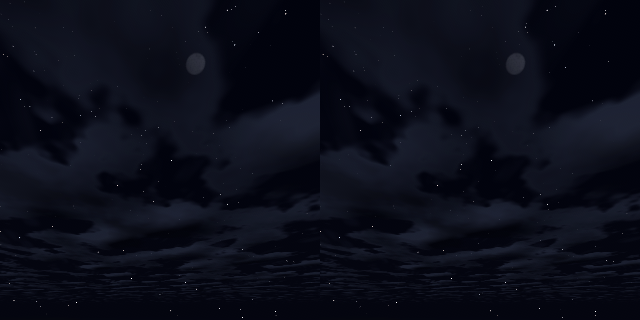
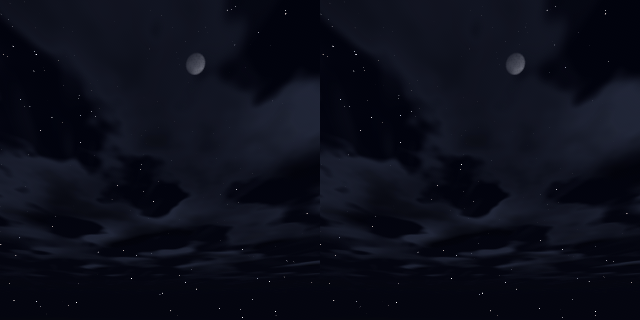
L1 sky: footprint-filtered clouds (no horizon stripes), cave dimming, no clouds in blind fog; checks for both
Verifier pass 1 fixes: each octave fades to its mean by pixel footprint and the octaves are rotated, the deck
reaches the horizon colour before it fades; u.wind.w carries caveScale; the pass is skipped under blind fog. SkyTest
adds a horizon-stripe check (clear + overcast) and a dark-cave check, and reads the biome air through skyColor.

Claude-Session: https://claude.ai/code/session_01YJGoYow1UijYySgLSrD9Pa

diff --git a/quest/src/test/SkyTest.swift b/quest/src/test/SkyTest.swift
@@ -71,6 +71,36 @@ enum SkyTest {
         let sunset = try view("sunset", time: 0.485, pitch: 0.3, yaw: .pi / 2)
         check(sunset.changed > 0.05 && sunset.cloudR > sunset.cloudB + 12,
               String(format: "sky: sunset clouds are warm (r %.0f, b %.0f over %.0f%%)", sunset.cloudR, sunset.cloudB, sunset.changed * 100))
+        // Toward the horizon (the last ~6 degrees above it) the deck must not alias into 1-pixel stripes: the mean
+        // vertical second difference of luma there, minus the same without clouds (the dome's own gradient).
+        func stripes(_ img: [UInt8], horizonRow: Int) -> Float {
+            var sum: Float = 0, n: Float = 0
+            func l(_ x: Int, _ y: Int) -> Float {
+                let i = (y * w * 2 + x) * 4
+                return 0.2126 * Float(img[i]) + 0.7152 * Float(img[i + 1]) + 0.0722 * Float(img[i + 2])
+            }
+            for y in max(0, horizonRow - 22)..<(horizonRow - 3) { for x in 0..<w { sum += abs(l(x, y) - 2 * l(x, y + 1) + l(x, y + 2)); n += 1 } }
+            return sum / max(1, n)
+        }
+        for (name, rain) in [("horizon", Float(0)), ("horizon_overcast", Float(1))] {
+            let pitch: Float = 0.08
+            let hr = h / 2 + Int(Float(h / 2) * tanf(pitch))
+            _ = try view(name, time: 0.22, pitch: pitch, rain: rain)
+            let on = stripes(RenderTest.lastRGBA, horizonRow: hr)
+            WorldRenderer.debugSkip.insert("clouds")
+            try RenderTest.render(game: game, ctx: ctx, path: "\(dir)/sky_\(name)_off.png", width: w, height: h, yaw: 0.6, pitch: pitch)
+            WorldRenderer.debugSkip.remove("clouds")
+            let off = stripes(RenderTest.lastRGBA, horizonRow: hr)
+            check(on - off < 2.5, String(format: "sky: no stripes toward the horizon (%@: roughness %.2f with clouds, %.2f without)", name, on, off))
+        }
+        // From a dark cave (the dome dimmed to 8 %%) the clouds up a shaft dim with it.
+        do {
+            WorldRenderer.testCaveK = 0
+            defer { WorldRenderer.testCaveK = nil }
+            let cave = try view("cave", time: 0.22, pitch: 0.75)
+            check(cave.cloudLuma < 60 || cave.changed < 0.02,
+                  String(format: "sky: clouds dim with the sky seen from a dark cave (cloud luma %.0f vs %.0f outside)", cave.cloudLuma, noon.cloudLuma))
+        }
         let night = try view("night", time: 0.75, pitch: 0.75)
         check(night.changed > 0.03 && night.cloudLuma < noon.cloudLuma * 0.4,
               String(format: "sky: night clouds are dim shapes (cloud luma %.0f vs %.0f at noon, %.0f%%)", night.cloudLuma, noon.cloudLuma, night.changed * 100))
@@ -104,13 +134,23 @@ enum SkyTest {
         for _ in 0..<1200 { game.skyTick(0.05) }
         let flashes = game.sky.distantFlashes - f0
         check(flashes >= 4 && flashes <= 25, "sky: a minute of thunderstorm flashes the distant clouds \(flashes) times")
-        let (desertT, desertH, desertC) = SkyState.air(.desert)
-        let (snowT, snowH, _) = SkyState.air(.snowyPlains)
-        check(desertH > 0.5 && snowH == 0 && snowT.z / snowT.x > desertT.z / desertT.x && desertC < 0.3,
-              "sky: desert air is hazy and warm with few clouds, snow air cold and clear")
-        var hz = SkyState(); hz.haze = 1; hz.tint = desertT
-        let clearC = V3(0.64, 0.77, 0.92)
-        let hazy = hz.tinted(clearC)
-        check(hazy.x / hazy.z > clearC.x / clearC.z + 0.1, String(format: "sky: desert haze warms the horizon (r/b %.2f vs %.2f)", hazy.x / hazy.z, clearC.x / clearC.z))
+        // Biome air as the game shows it: walk the sky state to the biome under a desert and a snow column and read
+        // the noon horizon and zenith (Game.skyColor / skyZenith, both platforms).
+        game.weather = Weather(); game.weather.rain = 0; game.weather.thunder = 0
+        game.time = 0.25 * DAY_LENGTH
+        func settle(_ b: Biome) -> (V3, V3, Float) {
+            let (t, hz, c) = SkyState.air(b)
+            game.sky.targetTint = t; game.sky.targetHaze = hz; game.sky.targetCover = c
+            for _ in 0..<400 { game.sky.biomeTimer = 1; game.skyTick(0.05) }      // 20 s, the biome sample held
+            return (game.skyColor, game.skyZenith, game.cloudCover)
+        }
+        let (plainH, plainZ, plainC) = settle(.plains)
+        let (desH, desZ, desC) = settle(.desert)
+        let (snowH, snowZ, _) = settle(.snowyPlains)
+        let rb = { (c: V3) -> Float in c.x / c.z }
+        check(rb(desH) > rb(plainH) + 0.08 && rb(desZ) > rb(plainZ) + 0.05 && desC < plainC,
+              String(format: "sky: desert air is hazier and warmer with fewer clouds (horizon r/b %.2f vs %.2f plains, cover %.2f vs %.2f)", rb(desH), rb(plainH), desC, plainC))
+        check(rb(snowH) < rb(plainH) - 0.03 && rb(snowZ) <= rb(plainZ),
+              String(format: "sky: snow air is a colder blue (horizon r/b %.2f vs %.2f plains)", rb(snowH), rb(plainH)))
     }
 }

diff --git a/quest/src/vk/WorldRenderer.swift b/quest/src/vk/WorldRenderer.swift
@@ -63,7 +63,8 @@ final class WorldRenderer {
         caveClock = now
         caveK = caveK < 0 ? target : caveK + (target - caveK) * (1 - expf(-dt / 0.7))
     }
-    var caveScale: Float { 0.08 + 0.92 * min(1, max(0, caveK) * 1.6) }
+    var caveScale: Float { 0.08 + 0.92 * min(1, max(0, WorldRenderer.testCaveK ?? caveK) * 1.6) }
+    static var testCaveK: Float?           // SkyTest: a dark-cave eye without building a cave
 
     func uniforms(_ cam: EyeCamera) -> (FrameUniforms, V3) {
         let p = game.player
@@ -104,7 +105,7 @@ final class WorldRenderer {
         let cx = Double(eye.x) + sk.driftX, cz = Double(eye.z) + sk.driftZ
         u.clouds = V4(Float(cx), Float(cz), game.cloudCover, sk.flash)
         u.cloudFlash = V4(sk.flashDir, min(1, game.weather.rain * 0.55 + game.weather.thunder * 0.45))
-        u.wind = V4(sk.wind.x, sk.wind.y, sk.haze, 0)
+        u.wind = V4(sk.wind.x, sk.wind.y, sk.haze, caveScale)
         let skyKind: Float = underwater || game.blindFog != nil ? 0 : (hasSky || vaultSky ? 1 : (game.dim.dim == .end ? 2 : 0))
         // Eye darkness: skylight 13.5+ around the eye (daylight, near the surface) 0 ... 4.5 or less (caves, deep dives) 1;
         // a wide ramp so the fill grows in step with the walls darkening.
@@ -203,7 +204,9 @@ final class WorldRenderer {
             body(-sd, 5, Int(Tex.id("moon_\(game.moonPhase)")), V4(1, 1, 1, 1))
             scene.commit(off, bw.n, EntityVert.self)
             scene.drawScratch(s, "body", offset: off, count: bw.n)
-            if QuestSettings.clouds && !WorldRenderer.debugSkip.contains("clouds") && game.dim.dim == .overworld { scene.drawClouds(s) }
+            if QuestSettings.clouds && !WorldRenderer.debugSkip.contains("clouds") && game.dim.dim == .overworld && game.blindFog == nil {
+                scene.drawClouds(s)
+            }
         } else if !underwater && game.inVaultSky {
             // The Cinder Sun over the Ash Vault: big, dull and red through the haze.
             let (ptr, off, cap) = scene.reserve(s, EntityVert.self, max: 6)

diff --git a/Sources/SkyLook.swift b/Sources/SkyLook.swift
@@ -3,7 +3,7 @@ import simd
 
 // The look of the overworld sky beyond the dome gradient (L1 look upgrade, docs/status/look-upgrade.md):
 // - one wind that drives every cloud layer (the Quest draws a cumulus deck and a high cirrus deck in clouds.frag; the
-//   drift is kept here in Double so it never loses precision over a long session);
+//   drift accumulates here in Double, and the eye's cloud-space position is sent as Float, fine to ~1e6 blocks);
 // - how cloudy the biome's air is and its tint (hazy warm over desert and badlands, cold blue over snow, damp grey-green
 //   over swamps), eased in over a few seconds as you travel;
 // - distant storm flashes: during a thunderstorm the clouds light up far away between the real strikes, with a far
@@ -99,7 +99,9 @@ extension Game {
                 let a = Rand.float(in: 0..<(2 * .pi)), e = Rand.float(in: 0.08...0.35)
                 s.flashAt(V3(cosf(a) * cosf(e), sinf(e), sinf(a) * cosf(e)), strength: Rand.float(in: 0.45...0.9))
                 s.distantFlashes += 1
-                if s.thunderIn < 0 { s.thunderIn = Rand.float(in: 2.5...7); s.thunderVolume = Rand.float(in: 0.22...0.45) }
+                // One roll at a time (a pending roll takes the louder of the two flashes).
+                let vol = Rand.float(in: 0.22...0.45)
+                if s.thunderIn < 0 { s.thunderIn = Rand.float(in: 2.5...7); s.thunderVolume = vol } else { s.thunderVolume = max(s.thunderVolume, vol) }
             }
         }
         if s.thunderIn >= 0 {

diff --git a/quest/src/vk/SceneRenderer.swift b/quest/src/vk/SceneRenderer.swift
@@ -19,7 +19,7 @@ struct FrameUniforms {
     var waves = V4(1, 0, 0, 0)       // x = ocean swell scale (Weather.swell)
     var clouds = V4(0, 0, 0.45, 0)   // clouds.frag: eye in cloud space (xz), cover, storm flash (SkyLook.swift)
     var cloudFlash = V4(0, 0.3, 1, 0) // flash direction, storm darkness
-    var wind = V4(1, 0, 0, 0)        // wind direction (xz), biome haze
+    var wind = V4(1, 0, 0, 1)        // wind direction (xz), biome haze, cave dimming
 }
 
 // One frame's camera: the head centre in world space and each eye's camera-relative view-projection.

diff --git a/docs/status/look-upgrade.md b/docs/status/look-upgrade.md
@@ -47,17 +47,26 @@ Our own additions:
 Each view is rendered with and without the cloud pass and compared pixel by pixel (left eye, 320x320 on lavapipe):
 fair-weather noon cover 12-85 % of an upward view and bright; rain closes the cover and darkens the sky; a
 thunderstorm darkens it further; a storm flash lights the clouds; sunset clouds are warm (r > b); night clouds are
-dim; 10 s of wind drifts the clouds along the wind; a minute of thunderstorm gives 4-25 distant flashes; desert air is
-hazy/warm and snow air cold/clear.
+dim; no stripes in the last ~6 degrees above the horizon (vertical luma roughness vs the cloudless frame, clear and
+overcast); from a dark cave the clouds dim with the sky; 10 s of wind drifts the clouds along the wind; a minute of thunderstorm gives 4-25 distant flashes; desert air is
+hazier, warmer and less cloudy and snow air colder blue, read from Game.skyColor/skyZenith after the sky state
+settles on each biome.
 
-First run (2026-10-11): noon 71 % cover, cloud luma 189; overcast 88 %, sky luma 92 vs 179; storm 46; storm flash 98;
-sunset cloud r 173 / b 108; night cloud luma 19; 7 distant flashes a minute.
+Verifier pass 1 (independent review): FAIL on horizon aliasing, clouds not dimmed from caves, clouds drawn in blind
+fog. Fixed: footprint filtering (each octave fades to its mean once its cells shrink under ~2 pixels, rim widened by the
+footprint, octaves rotated against each other), u.wind.w carries caveScale, the pass is skipped under blind fog; checks
+added for the first two. Also from the review: the silver lining is stronger at dusk, night clouds are more opaque over
+the stars, a pending far thunder roll takes the louder of two flashes.
+
+Run 2026-10-11 (after the review fixes): noon 66 % cover, cloud luma 196; overcast 83 %, sky luma 91 vs 184; storm 45;
+storm flash 98; sunset cloud r 174 / b 111; night cloud luma 20; horizon roughness 1.62 / 1.66 (0.87 / 0.93 without
+clouds); cave cloud luma 19; 8 distant flashes a minute.
 
 ### Cost
-lavapipe (CPU rasteriser, relative only): a sky-filled 2 x 320x320 view 10.9 ms with clouds vs 8.7 ms without. On the
-Quest the pass touches only sky pixels above the horizon, 7 value-noise taps (~30 ALU each) plus ~40 ALU of lighting,
+lavapipe (CPU rasteriser, relative only): a sky-filled 2 x 320x320 view 11.2 ms with clouds vs 8.4 ms without. On the
+Quest the pass touches only sky pixels above the horizon, 7 value-noise taps (~30 ALU each) plus ~60 ALU of lighting and filtering,
 fp32. The Clouds option turns it off. Device fps before/after is for lane M (M3) to confirm on the headset.
 
 ### Screenshots
-docs/status/evidence/look-upgrade/sky_{noon,sunset,overcast,storm_flash,night}.png (after) and `_before.png` (the same
+docs/status/evidence/look-upgrade/sky_{noon,sunset,overcast,storm_flash,night,horizon,horizon_overcast}.png (after) and `_before.png` (the same
 view without clouds, i.e. the Quest before this change).
